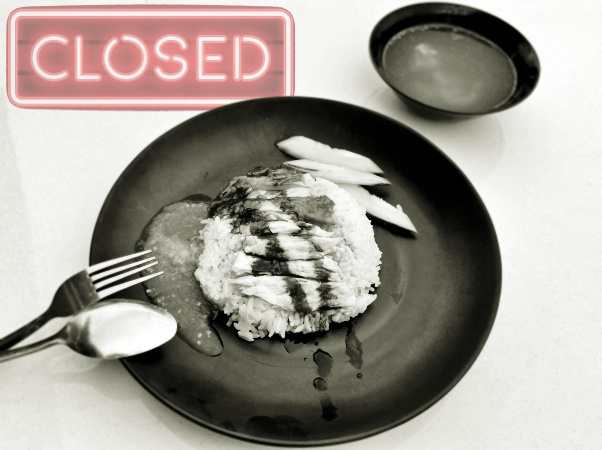
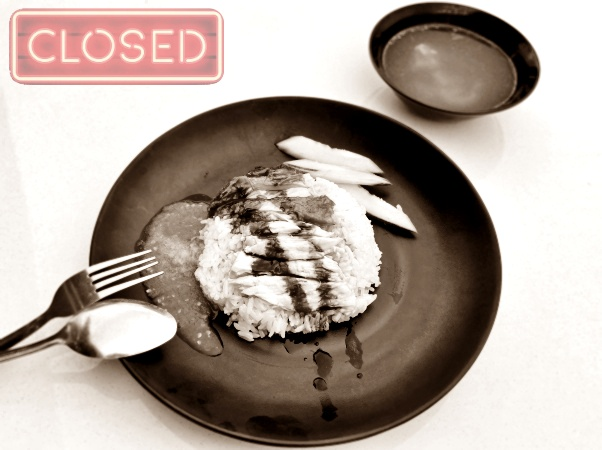
Closed

diff --git a/_posts/2020-11-16-frankel-chicken-rice.md b/_posts/2020-11-16-frankel-chicken-rice.md
@@ -6,7 +6,7 @@ categories:
 - kopitiam
 - siglap
 - hainanese
-image: assets/images/frankel-chicken-rice-1.jpg
+image: assets/images/frankel-chicken-rice-closed.jpg
 featured: false
 hidden: false
 rating: 3.5

diff --git a/_posts/2020-11-06-frankel-bak-chor-mee.md b/_posts/2020-11-06-frankel-bak-chor-mee.md
@@ -5,7 +5,7 @@ categories:
 - noodles
 - siglap
 - kopitiam
-image: assets/images/frankel-bak-chor-mee-1.jpg
+image: assets/images/frankel-bak-chor-mee-closed.jpg
 featured: false
 hidden: false
 rating: 4
